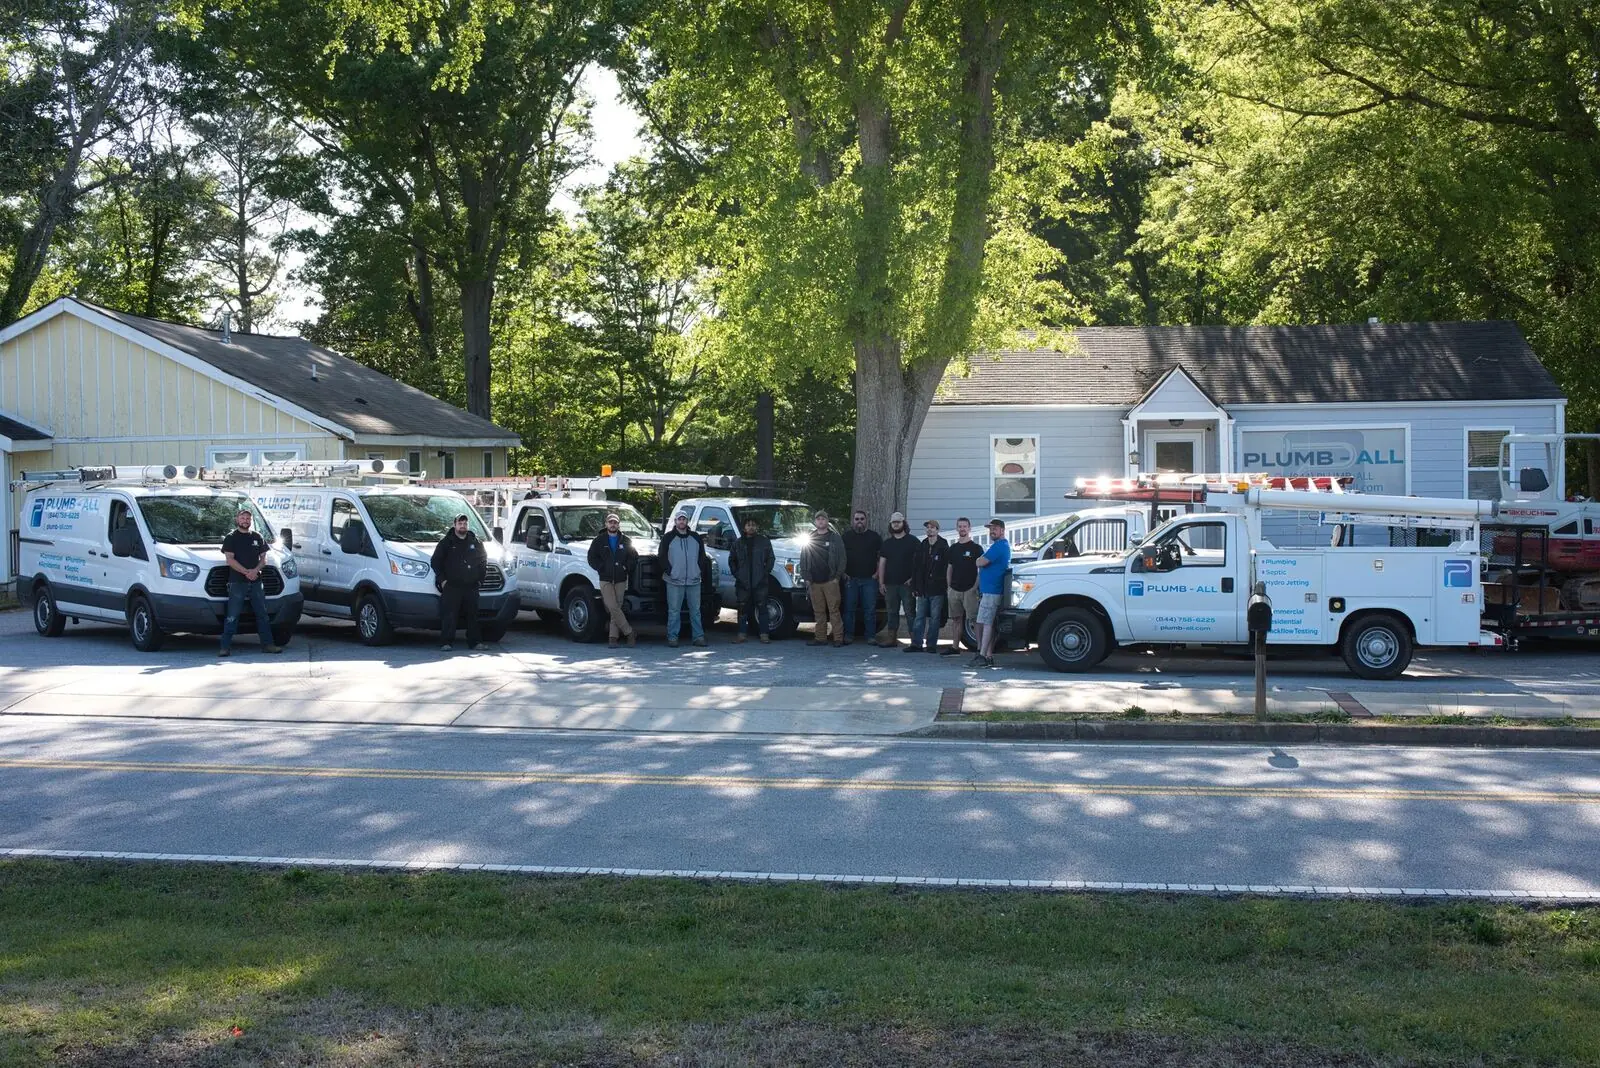
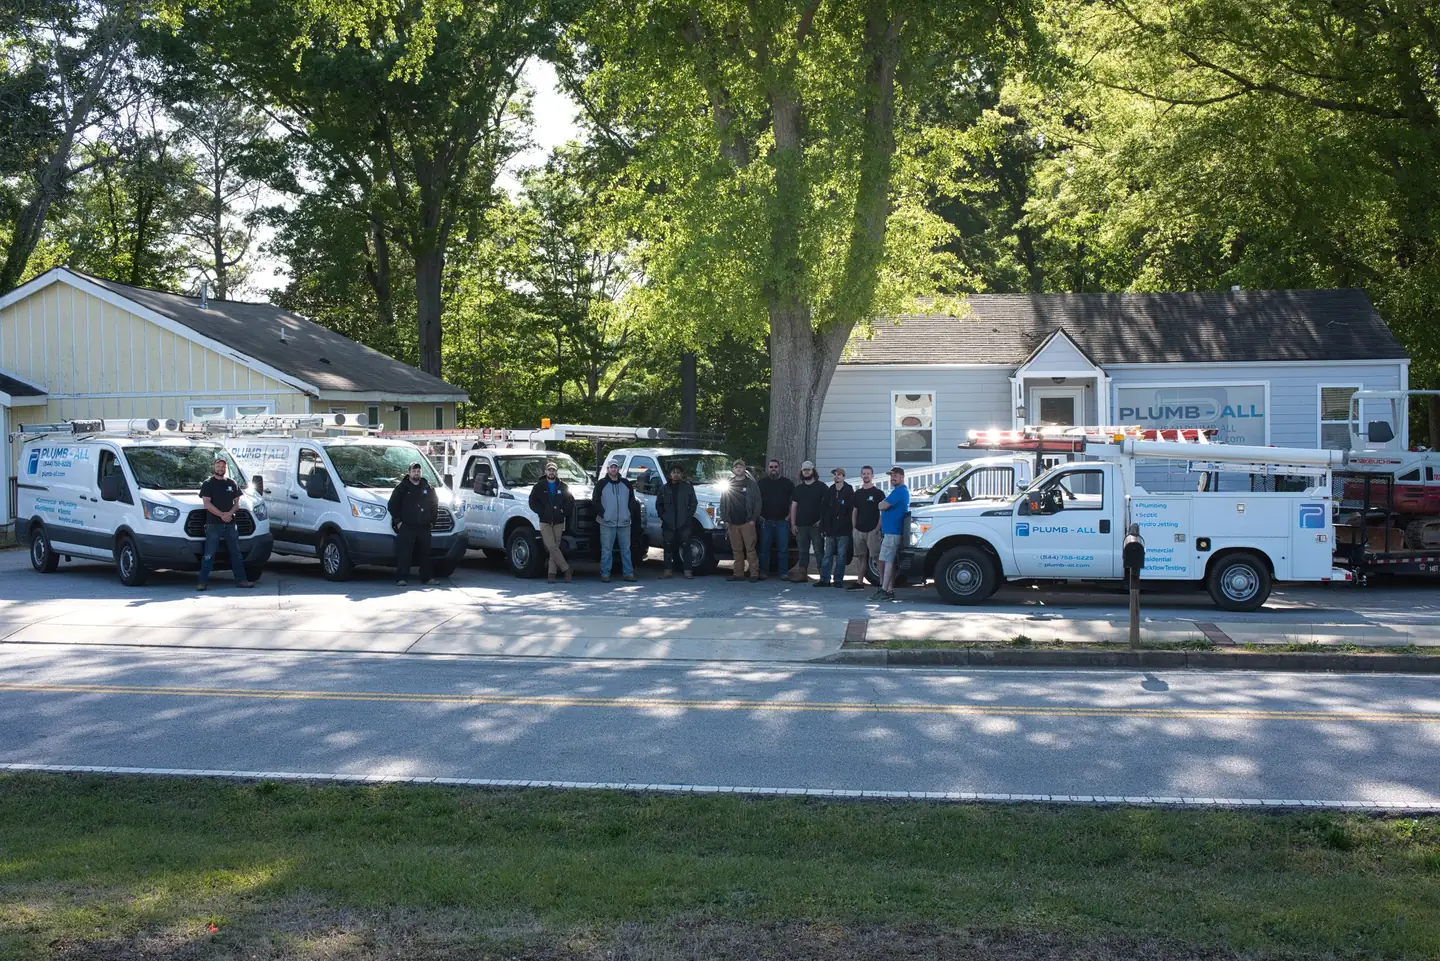
Retarget homepage to Jonesboro and South Metro Atlanta
New title, description and H1 around plumbing and septic in Jonesboro,
a septic service card, a most-requested services block, the vans hero,
a team section, and an areas-served list built from Jobber jobs. The
business schema's service area now centers on Jonesboro and lists those
towns, adds the team photo, and links Yelp, Nextdoor and Facebook.
Recompress the team photo (380 KB to 265 KB).

diff --git a/src/app/page.tsx b/src/app/page.tsx
@@ -1,5 +1,5 @@
 import Image from "next/image";
-import {FaHome, FaBuilding, FaCheck, FaTimes, FaThumbsUp, FaTools, FaPhone, FaShieldAlt, FaAward, FaClock} from 'react-icons/fa';
+import {FaHome, FaBuilding, FaWater, FaCheck, FaTimes, FaThumbsUp, FaTools, FaPhone, FaShieldAlt, FaAward, FaClock} from 'react-icons/fa';
 import React from "react";
 import ContactForm from "@/components/ContactForm";
 import Link from "next/link";
@@ -9,12 +9,14 @@ import HomeTestimonials from "@/components/HomeTestimonials";
 import {generateMetadataDict} from "@/components/header/metadata";
 import LocalBusinessSchema from "@/components/schema/LocalBusinessSchema";
 import BreadcrumbSchema from "@/components/schema/BreadcrumbSchema";
+import { serviceAreaTowns } from "@/lib/serviceArea";
+import { septicTowns } from "@/lib/septicTowns";
 
 // Generate metadata for the page
 export async function generateMetadata(): Promise<Metadata> {
-  const title = 'Top Rated Atlanta Plumbers';
-  const description = 'Plumb-All\'s expert plumbers have been tackling all types of plumbing and septic problems in South Atlanta since 2003.';
-  const ogImageUrl = 'og-home-page-formbg';
+  const title = 'Plumber & Septic Service in Jonesboro, GA';
+  const description = 'Plumbing and septic service in Jonesboro and South Metro Atlanta since 2003: repairs, water heaters, drains and septic. Plumbers on call 24/7.';
+  const ogImageUrl = 'og-home-page-our-team';
   const path = '/';
 
   return generateMetadataDict(title, description, ogImageUrl, path);
@@ -30,8 +32,8 @@ export default function Home() {
       <section className="relative w-full">
         <div className="w-full h-[500px] relative">
           <Image
-            src="/images/pipes.webp"
-            alt="Plumbing pipes background"
+            src="/images/vans.webp"
+            alt="Plumb-All plumbing and septic service vans in Jonesboro, GA"
             fill
             className="object-cover object-center"
             sizes="100vw"
@@ -39,8 +41,8 @@ export default function Home() {
           />
           <div className="absolute inset-0 home-bg-dark-50 flex items-center justify-center">
             <div className="text-white text-center max-w-3xl px-4">
-              <h1 className="text-4xl md:text-5xl font-bold mb-4">Atlanta&#39;s Premier Plumbing & Septic Experts</h1>
-              <p className="text-xl md:text-2xl mb-8">Solving all your plumbing needs since 2003</p>
+              <h1 className="text-4xl md:text-5xl font-bold mb-4">Plumbing & Septic Experts in Jonesboro and South Metro Atlanta</h1>
+              <p className="text-xl md:text-2xl mb-8">Serving Clayton, Henry, Fayette and nearby counties since 2003 · Plumbers available 24/7</p>
               <div className="flex flex-col sm:flex-row gap-4 justify-center">
                 <a
                   href="tel:+17709143877"
@@ -66,11 +68,11 @@ export default function Home() {
           <div className="text-center mb-12">
             <h2 className="text-3xl md:text-4xl font-bold mb-4">Our Expert Services</h2>
             <p className="text-xl text-gray-600 max-w-3xl mx-auto">
-              From residential plumbing to commercial systems, we provide comprehensive solutions for all your needs.
+              Plumbing and septic for homes and businesses, from a leaking pipe to a new drain field.
             </p>
           </div>
 
-          <div className="grid grid-cols-1 md:grid-cols-3 gap-8">
+          <div className="grid grid-cols-1 md:grid-cols-2 lg:grid-cols-4 gap-8">
             <div className="bg-white rounded-lg shadow-lg overflow-hidden transform transition duration-300 hover:scale-105">
               <div className="h-20 background-theme-1 flex items-center justify-center">
                 <FaHome className="text-5xl text-white" />
@@ -82,6 +84,24 @@ export default function Home() {
                 </p>
                 <Link
                   href="/services/residential"
+                  className="inline-block background-theme-1 text-white px-4 py-2 rounded hover:background-theme-2 transition"
+                >
+                  Learn More
+                </Link>
+              </div>
+            </div>
+
+            <div className="bg-white rounded-lg shadow-lg overflow-hidden transform transition duration-300 hover:scale-105">
+              <div className="h-20 background-theme-1 flex items-center justify-center">
+                <FaWater className="text-5xl text-white" />
+              </div>
+              <div className="p-6">
+                <h3 className="text-xl font-bold mb-3">Septic</h3>
+                <p className="text-gray-600 mb-4">
+                  Septic pumping, inspections, baffle and drain field repair, risers, and new conventional and Eljen systems.
+                </p>
+                <Link
+                  href="/services/septic-system"
                   className="inline-block background-theme-1 text-white px-4 py-2 rounded hover:background-theme-2 transition"
                 >
                   Learn More
@@ -125,6 +145,82 @@ export default function Home() {
               </div>
             </div>
           </div>
+
+          <div className="mt-12 bg-white rounded-lg shadow-md p-6 md:p-8">
+            <h3 className="text-2xl font-bold mb-4 text-center">What We Do Most</h3>
+            <p className="text-lg text-gray-700 mb-4">
+              Plumb-All has handled plumbing and septic work across South Metro Atlanta since 2003, from our shop in
+              Jonesboro. Our most requested services:
+            </p>
+            <ul className="grid grid-cols-1 sm:grid-cols-2 gap-x-8 gap-y-2 text-lg">
+              <li><Link href="/services/leak-detection" className="text-theme-3 hover:underline">Leak detection</Link>, including slab and hidden leaks</li>
+              <li><Link href="/services/plumbing-repair" className="text-theme-3 hover:underline">Pipe and plumbing repair</Link></li>
+              <li><Link href="/services/water-heater-replacement" className="text-theme-3 hover:underline">Water heater repair and replacement</Link>, tank and tankless</li>
+              <li><Link href="/services/drain-cleaning" className="text-theme-3 hover:underline">Drain cleaning</Link> and <Link href="/services/hydro-jetting" className="text-theme-3 hover:underline">hydro-jetting</Link></li>
+              <li><Link href="/services/water-line-repair" className="text-theme-3 hover:underline">Water and sewer line repair</Link></li>
+              <li><Link href="/services/septic-tank-pumping" className="text-theme-3 hover:underline">Septic tank pumping</Link> and <Link href="/services/septic-inspection" className="text-theme-3 hover:underline">septic inspections</Link></li>
+              <li><Link href="/services/septic-repair" className="text-theme-3 hover:underline">Septic and drain field repair</Link></li>
+              <li><Link href="/services/eljen-septic" className="text-theme-3 hover:underline">Eljen</Link> and <Link href="/services/alternative-septic" className="text-theme-3 hover:underline">alternative septic systems</Link></li>
+            </ul>
+            <p className="text-lg text-gray-700 mt-4">
+              Plumbers are on call 24/7 for <Link href="/services/emergencies" className="text-theme-3 hover:underline">emergencies</Link>, and
+              we can usually be there within 24 hours anywhere in our service area. See <Link href="/services" className="text-theme-3 hover:underline">all services</Link>.
+            </p>
+          </div>
+        </div>
+      </section>
+
+      {/* Our Team */}
+      <section className="w-full py-12 bg-white">
+        <div className="max-w-6xl mx-auto px-4">
+          <div className="text-center mb-6">
+            <h2 className="text-3xl md:text-4xl font-bold mb-4">Meet the Plumb-All Team</h2>
+            <p className="text-lg text-gray-600 max-w-3xl mx-auto">
+              Licensed plumbers and septic technicians working out of our shop in Jonesboro since 2003.
+              When you call, it&#39;s our own team that shows up.
+            </p>
+          </div>
+          <figure>
+            <Image
+              src="/images/our-team.webp"
+              alt="The Plumb-All team with their service trucks outside the Plumb-All office in Jonesboro, GA"
+              width={1440}
+              height={961}
+              sizes="(min-width: 1152px) 1120px, 100vw"
+              className="w-full aspect-[16/7] object-cover object-[center_40%] rounded-lg shadow-md"
+              loading="lazy"
+            />
+            <figcaption className="text-sm text-gray-500 text-center mt-2">
+              The Plumb-All team at our shop, 218 N McDonough St, Jonesboro
+            </figcaption>
+          </figure>
+        </div>
+      </section>
+
+      {/* Areas We Serve */}
+      <section className="w-full py-12 bg-white">
+        <div className="max-w-6xl mx-auto px-4 text-center">
+          <h2 className="text-3xl md:text-4xl font-bold mb-4">Areas We Serve</h2>
+          <p className="text-lg text-gray-600 max-w-3xl mx-auto mb-8">
+            Plumb-All is based at 218 N McDonough St in Jonesboro. Our plumbers and septic crews cover South Metro Atlanta,
+            including:
+          </p>
+          <ul className="flex flex-wrap justify-center gap-3">
+            {serviceAreaTowns.map((town) => {
+              const septicPage = septicTowns.find((t) => t.name === town);
+              return (
+                <li key={town}>
+                  {septicPage ? (
+                    <Link href={`/septic-service/${septicPage.slug}`} className="inline-block border border-gray-300 rounded-full px-4 py-2 font-semibold text-theme-3 hover:underline">
+                      {town}, GA
+                    </Link>
+                  ) : (
+                    <span className="inline-block border border-gray-200 rounded-full px-4 py-2 font-semibold text-gray-700">{town}, GA</span>
+                  )}
+                </li>
+              );
+            })}
+          </ul>
         </div>
       </section>
 

diff --git a/src/components/schema/LocalBusinessSchema.tsx b/src/components/schema/LocalBusinessSchema.tsx
@@ -1,4 +1,5 @@
 import React from 'react';
+import { areaServedSchema } from '@/lib/serviceArea';
 
 export default function LocalBusinessSchema() {
   const schema = {
@@ -8,7 +9,10 @@ export default function LocalBusinessSchema() {
     name: 'Plumb-All',
     url: 'https://plumb-all.com',
     logo: 'https://plumb-all.com/logo/wide-logo.png',
-    image: 'https://plumb-all.com/images/vans.webp',
+    image: [
+      'https://plumb-all.com/images/our-team.webp',
+      'https://plumb-all.com/images/vans.webp',
+    ],
     telephone: '+1-770-914-3877',
     email: 'info@plumb-all.com',
     priceRange: '$$',
@@ -25,15 +29,7 @@ export default function LocalBusinessSchema() {
       latitude: 33.5218,
       longitude: -84.3538,
     },
-    areaServed: {
-      '@type': 'GeoCircle',
-      geoMidpoint: {
-        '@type': 'GeoCoordinates',
-        latitude: 33.749,
-        longitude: -84.388,
-      },
-      geoRadius: '50000',
-    },
+    areaServed: areaServedSchema,
     // Plumbers are on call 24/7 (matches "Open 24 hours" on the Business Profile)
     openingHoursSpecification: [
       {
@@ -65,6 +61,9 @@ export default function LocalBusinessSchema() {
     },
     sameAs: [
       'https://g.page/r/Cbrr7EyVgUNcEBA',
+      'https://www.yelp.com/biz/plumb-all-jonesboro',
+      'https://nextdoor.com/page/plumb-all-jonesboro-ga',
+      'https://www.facebook.com/plumball.jonesboro',
     ],
   };
 

diff --git a/src/lib/serviceArea.ts b/src/lib/serviceArea.ts
@@ -1,0 +1,36 @@
+/**
+ * Where Plumb-All works, from Jobber jobs Nov 2024 – Nov 2026 (most jobs first).
+ * Used for the homepage service-area list and the `areaServed` schema.
+ */
+export const serviceAreaTowns = [
+  'Jonesboro',
+  'Stockbridge',
+  'Riverdale',
+  'McDonough',
+  'Hampton',
+  'Morrow',
+  'Fayetteville',
+  'Forest Park',
+  'Conyers',
+  'Griffin',
+  'Rex',
+  'Locust Grove',
+  'Covington',
+  'Ellenwood',
+  'Peachtree City',
+  'Newnan',
+];
+
+/** Schema.org `areaServed`: the towns above, plus a radius around the Jonesboro shop */
+export const areaServedSchema = [
+  ...serviceAreaTowns.map((town) => ({ '@type': 'City', name: `${town}, GA` })),
+  {
+    '@type': 'GeoCircle',
+    geoMidpoint: {
+      '@type': 'GeoCoordinates',
+      latitude: 33.5218,
+      longitude: -84.3538,
+    },
+    geoRadius: '60000',
+  },
+];

diff --git a/src/components/schema/ServiceSchema.tsx b/src/components/schema/ServiceSchema.tsx
@@ -1,4 +1,5 @@
 import React from 'react';
+import { areaServedSchema } from '@/lib/serviceArea';
 
 export default function ServiceSchema({
   name,
@@ -35,15 +36,7 @@ export default function ServiceSchema({
     areaServed: city ? {
       '@type': 'City',
       name: `${city}, GA`,
-    } : {
-      '@type': 'GeoCircle',
-      geoMidpoint: {
-        '@type': 'GeoCoordinates',
-        latitude: 33.749,
-        longitude: -84.388,
-      },
-      geoRadius: '50000',
-    },
+    } : areaServedSchema,
   };
 
   return (

diff --git a/src/lib/og-image.tsx b/src/lib/og-image.tsx
@@ -99,7 +99,7 @@ export async function generateOgImage(params: OgImageParams) {
 export async function getAllOgImageConfigs(): Promise<OgImageParams[]> {
   const configs: OgImageParams[] = [
     // Static pages
-    { title: 'Home Page', image: '/images/formbg.jpg' },
+    { title: 'Home Page', image: '/images/our-team.jpg' },
     { title: 'About Us', image: '/images/our-team.jpg' },
     { title: 'Contact Us', image: '/images/our-team.jpg' },
     { title: 'Financing', image: '/logo/plumb-all-banner.png' },
